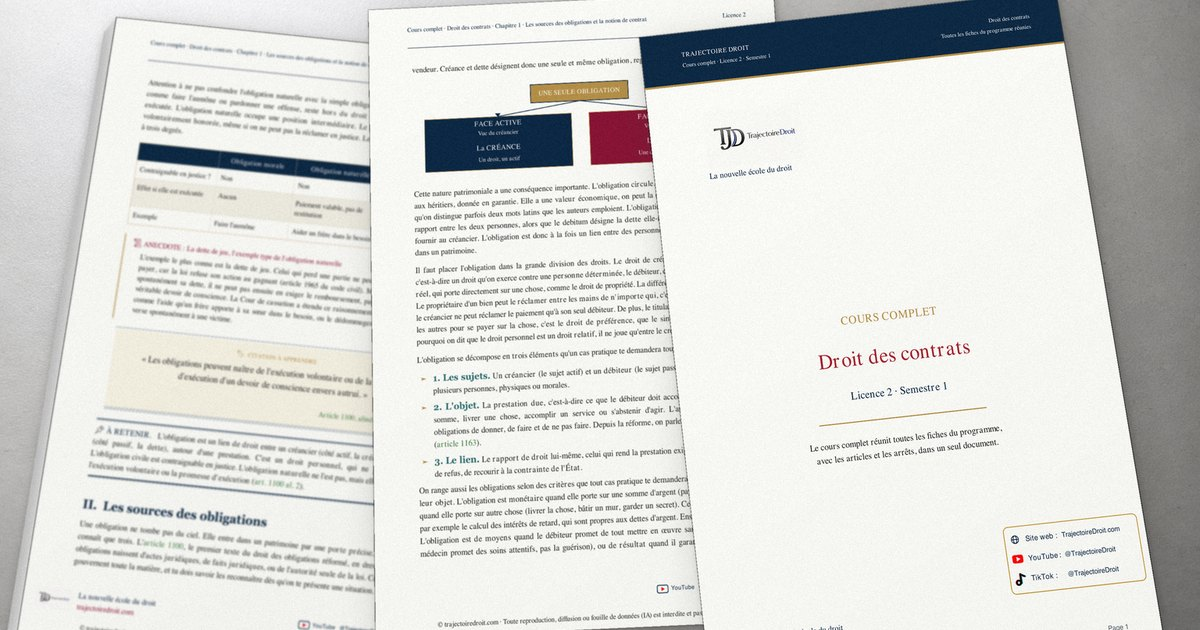
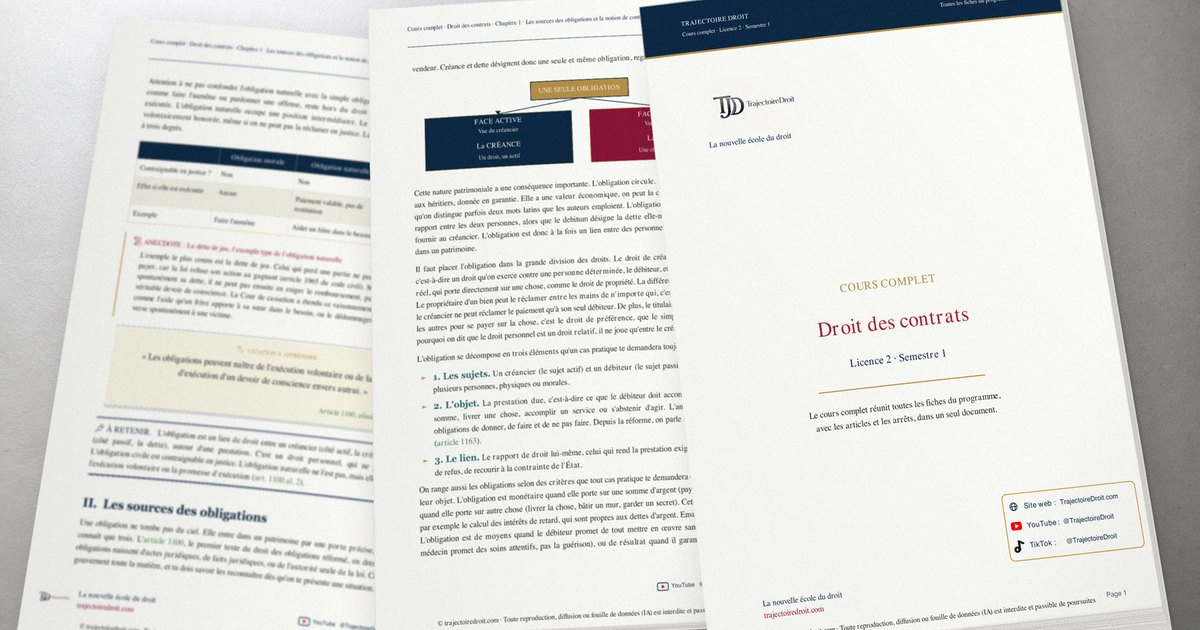
Photos cours complet et fiche complète : liasses avec tranche feuilletée, feuille du dessus bombée et ombrée

diff --git a/formations.html b/formations.html
@@ -39,12 +39,12 @@
   <meta property="og:description" content="Toute la matière de droit en fiches complètes PDF, construites étape par étape avec des couleurs et des schémas. Agréables à lire, faciles à mémoriser.">
   <meta property="og:url" content="https://trajectoiredroit.com/formations.html">
   <meta property="og:locale" content="fr_FR">
-  <meta property="og:image" content="https://trajectoiredroit.com/assets/formats/og-fiche-complete.jpg?v=pages-reelles">
+  <meta property="og:image" content="https://trajectoiredroit.com/assets/formats/og-fiche-complete.jpg?v=pages-epaisseur">
   <meta property="og:image:width" content="1200">
   <meta property="og:image:height" content="630">
   <meta property="og:image:alt" content="Fiche complète de Droit des contrats L2 S1 imprimée et posée sur un bureau, la couverture devant et le chapitre sur les sources des obligations derrière">
   <meta name="twitter:card" content="summary_large_image">
-  <meta name="twitter:image" content="https://trajectoiredroit.com/assets/formats/og-fiche-complete.jpg?v=pages-reelles">
+  <meta name="twitter:image" content="https://trajectoiredroit.com/assets/formats/og-fiche-complete.jpg?v=pages-epaisseur">
   <meta name="twitter:image:alt" content="Fiche complète de Droit des contrats L2 S1 imprimée et posée sur un bureau, la couverture devant et le chapitre sur les sources des obligations derrière">
   <link rel="icon" href="assets/favicon.svg" type="image/svg+xml">
   <link rel="preconnect" href="https://fonts.googleapis.com">
@@ -501,7 +501,7 @@
         <span class="eyebrow">Les fiches complètes que ta fac ne t'a pas données.</span>
         <h1 class="h1" style="margin-top:12px">Fiches complètes · Toute ta licence de droit, matière par matière.</h1>
         <p class="lead">Chaque fiche complète réunit toute la matière d'un semestre en un seul PDF, construite étape par étape, avec des couleurs, des schémas et des exemples concrets. Pensée pour être agréable à lire et facile à retenir, elle suit les principes de mémorisation qui font qu'on apprend vite et qu'on oublie moins.</p>
-        <img src="assets/formats/photo-fiche-complete-contrats-l2s1.webp?v=pages-reelles" alt="Fiche complète de Droit des contrats L2 S1 imprimée et posée sur un bureau, la couverture devant et le chapitre sur les sources des obligations derrière" width="1254" height="836" fetchpriority="high" decoding="async" style="display:block; width:100%; max-width:640px; height:auto; margin:24px auto 8px; border-radius:var(--r-xl); box-shadow:var(--sh-3); border:1px solid var(--border)">
+        <img src="assets/formats/photo-fiche-complete-contrats-l2s1.webp?v=pages-epaisseur" alt="Fiche complète de Droit des contrats L2 S1 imprimée et posée sur un bureau, la couverture devant et le chapitre sur les sources des obligations derrière" width="1254" height="836" fetchpriority="high" decoding="async" style="display:block; width:100%; max-width:640px; height:auto; margin:24px auto 8px; border-radius:var(--r-xl); box-shadow:var(--sh-3); border:1px solid var(--border)">
         <div class="trust-row">
           <span>Téléchargement immédiat</span>
           <span>Paiement sécurisé · Prix en euros</span>

diff --git a/cours-fiches.html b/cours-fiches.html
@@ -39,12 +39,12 @@
   <meta property="og:description" content="Toutes les fiches détaillées d'une matière réunies fiche par fiche dans un seul document continu.">
   <meta property="og:url" content="https://trajectoiredroit.com/cours-fiches.html">
   <meta property="og:locale" content="fr_FR">
-  <meta property="og:image" content="https://trajectoiredroit.com/assets/formats/og-cours-complet.jpg?v=pages-reelles">
+  <meta property="og:image" content="https://trajectoiredroit.com/assets/formats/og-cours-complet.jpg?v=pages-epaisseur">
   <meta property="og:image:width" content="1200">
   <meta property="og:image:height" content="630">
   <meta property="og:image:alt" content="Pages imprimées du cours complet de Droit des contrats L2 S1, avec la couverture au premier plan et, derrière, la fiche sur les sources des obligations">
   <meta name="twitter:card" content="summary_large_image">
-  <meta name="twitter:image" content="https://trajectoiredroit.com/assets/formats/og-cours-complet.jpg?v=pages-reelles">
+  <meta name="twitter:image" content="https://trajectoiredroit.com/assets/formats/og-cours-complet.jpg?v=pages-epaisseur">
   <meta name="twitter:image:alt" content="Pages imprimées du cours complet de Droit des contrats L2 S1, avec la couverture au premier plan et, derrière, la fiche sur les sources des obligations">
   <link rel="icon" href="assets/favicon.svg" type="image/svg+xml">
   <link rel="preconnect" href="https://fonts.googleapis.com">
@@ -378,7 +378,7 @@
         <span class="eyebrow">Toutes les fiches détaillées d'une matière, réunies dans un seul document.</span>
         <h1 class="h1" style="margin-top:12px">Cours complet · Le format le plus long, matière par matière.</h1>
         <p class="lead">Le cours complet reprend l'intégralité du programme d'une matière, fiche par fiche, sans rien raccourcir. Chaque point est développé jusqu'au bout, avec les articles, la jurisprudence et les exemples. Une seule matière, un seul PDF, du début à la fin du semestre.</p>
-        <img src="assets/formats/photo-cours-complet-contrats-l2s1.webp?v=pages-reelles" alt="Pages imprimées du cours complet de Droit des contrats L2 S1, avec la couverture au premier plan et, derrière, la fiche sur les sources des obligations" width="1254" height="836" fetchpriority="high" decoding="async" style="display:block; width:100%; max-width:640px; height:auto; margin:24px auto 8px; border-radius:var(--r-xl); box-shadow:var(--sh-3); border:1px solid var(--border)">
+        <img src="assets/formats/photo-cours-complet-contrats-l2s1.webp?v=pages-epaisseur" alt="Pages imprimées du cours complet de Droit des contrats L2 S1, avec la couverture au premier plan et, derrière, la fiche sur les sources des obligations" width="1254" height="836" fetchpriority="high" decoding="async" style="display:block; width:100%; max-width:640px; height:auto; margin:24px auto 8px; border-radius:var(--r-xl); box-shadow:var(--sh-3); border:1px solid var(--border)">
         <div class="trust-row">
           <span>Téléchargement immédiat</span>
           <span>Paiement sécurisé · Prix en euros</span>

diff --git a/droit-des-contrats-l2.html b/droit-des-contrats-l2.html
@@ -523,7 +523,7 @@
         </div>
       </div>
       <div class="card">
-        <img src="assets/formats/photo-cours-complet-contrats-l2s1-carte.webp?v=pages-reelles" alt="Pages imprimées du cours complet de Droit des contrats L2 S1, avec la couverture au premier plan et, derrière, la fiche sur les sources des obligations" width="820" height="461" loading="lazy" decoding="async" style="display:block; width:100%; height:auto; aspect-ratio:16 / 9; object-fit:cover; border-radius:10px; margin-bottom:14px">
+        <img src="assets/formats/photo-cours-complet-contrats-l2s1-carte.webp?v=pages-epaisseur" alt="Pages imprimées du cours complet de Droit des contrats L2 S1, avec la couverture au premier plan et, derrière, la fiche sur les sources des obligations" width="820" height="461" loading="lazy" decoding="async" style="display:block; width:100%; height:auto; aspect-ratio:16 / 9; object-fit:cover; border-radius:10px; margin-bottom:14px">
         <h3 style="margin-top:0">Cours complet</h3>
         <p style="color:var(--body); font-size:.9rem; margin-bottom:0">Le format le plus détaillé, jusqu'au moindre développement, pour ne rien laisser au hasard.</p>
         
